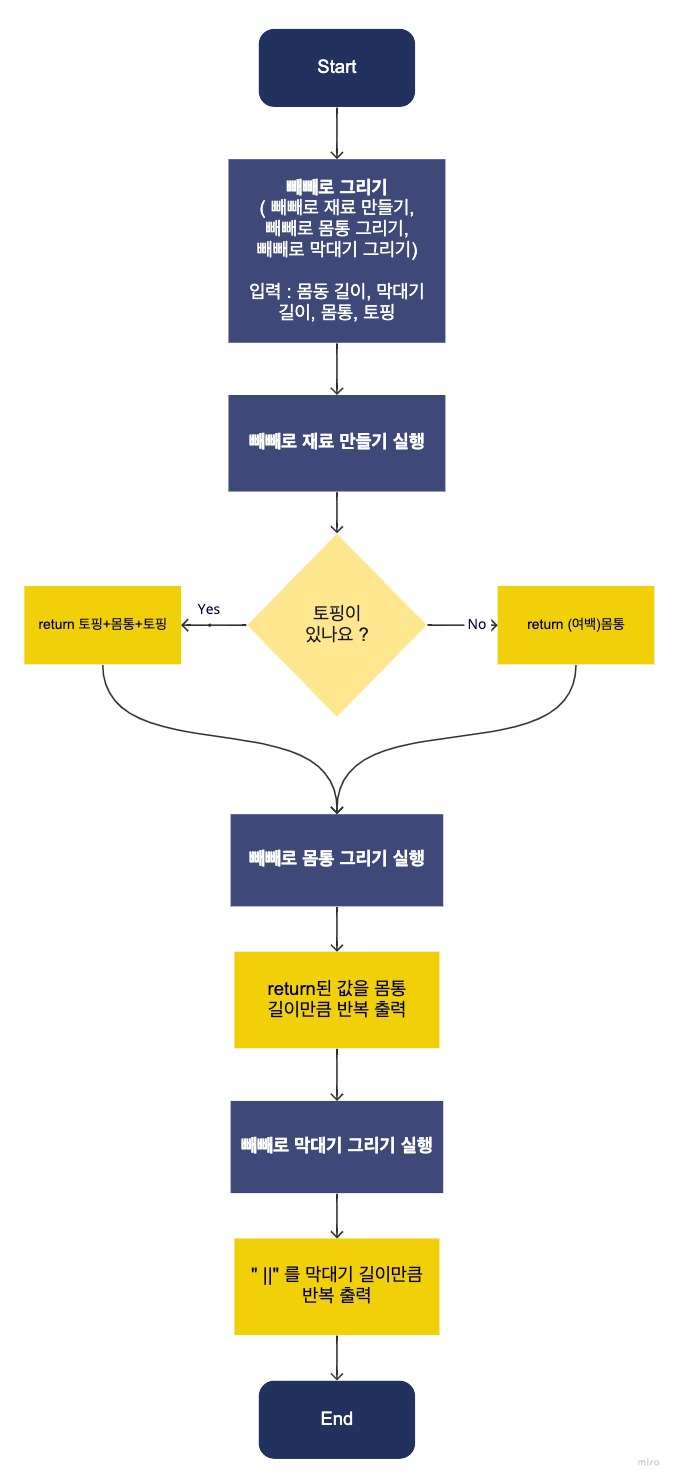
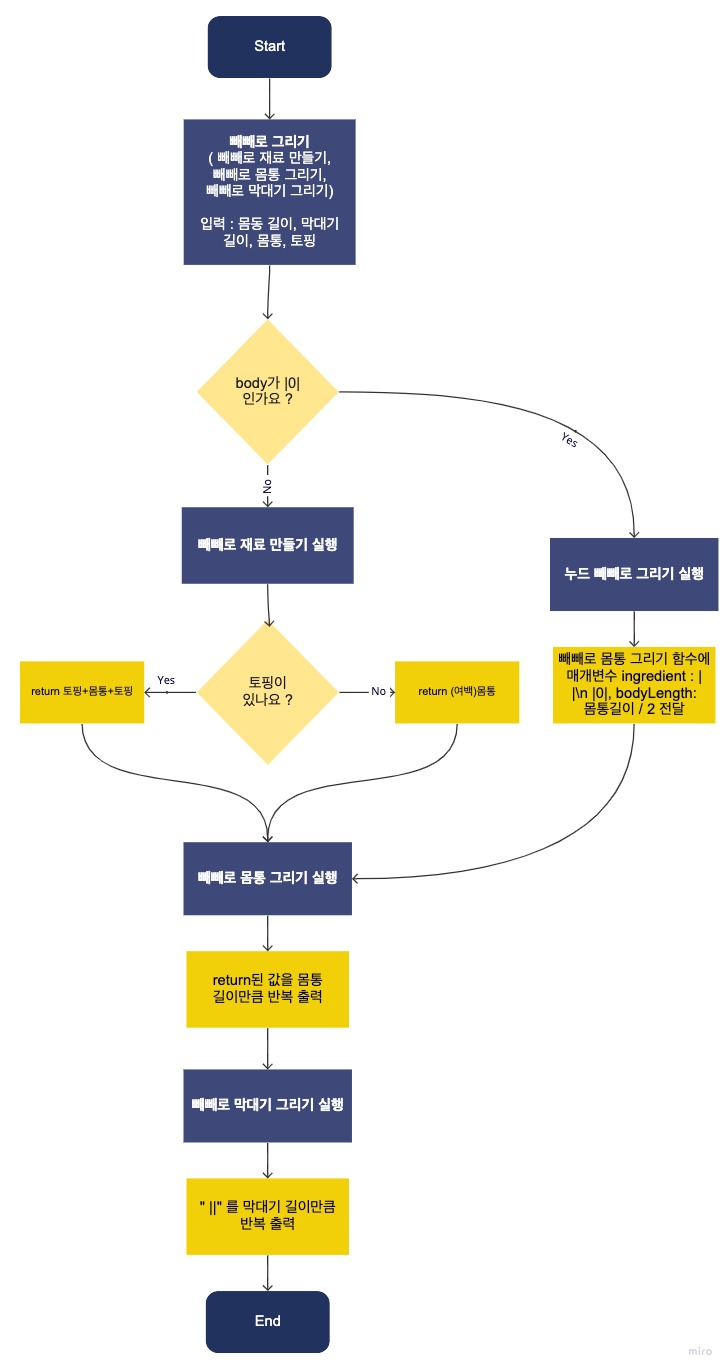
[WEEK1 - STEP3] feat : 누드빼빼로 분기처리 추가 및 순서도 변경

diff --git a/CodeStarterCamp_Week1/step3.swift b/CodeStarterCamp_Week1/step3.swift
@@ -8,9 +8,13 @@
 import Foundation
 
 func drawPepero(bodyLength: Int, body: String, topping: String, barLength: Int) {
-  let ingredient = makeIngredient(body: body, topping: topping)
-  drawPeperoBody(bodyLength: bodyLength, ingredient: ingredient)
-  drawPeperoBar(barLength: barLength)
+  if body == "|0|" {
+    drawNudePepero(bodyLength: bodyLength, barLength: barLength)
+  } else {
+    let ingredient = makeIngredient(body: body, topping: topping)
+    drawPeperoBody(bodyLength: bodyLength, ingredient: ingredient)
+    drawPeperoBar(barLength: barLength)
+  }
 }
 
 func makeIngredient(body: String, topping: String) -> String {
@@ -27,4 +31,10 @@ func drawPeperoBar(barLength: Int) {
   for _ in 0..<barLength {
     print(" | |")
   }
+}
+
+func drawNudePepero(bodyLength: Int, barLength: Int) {
+  let length: Int = bodyLength/2
+  drawPeperoBody(bodyLength: length, ingredient: " | |\n |0|")
+  drawPeperoBar(barLength: barLength)
 }
